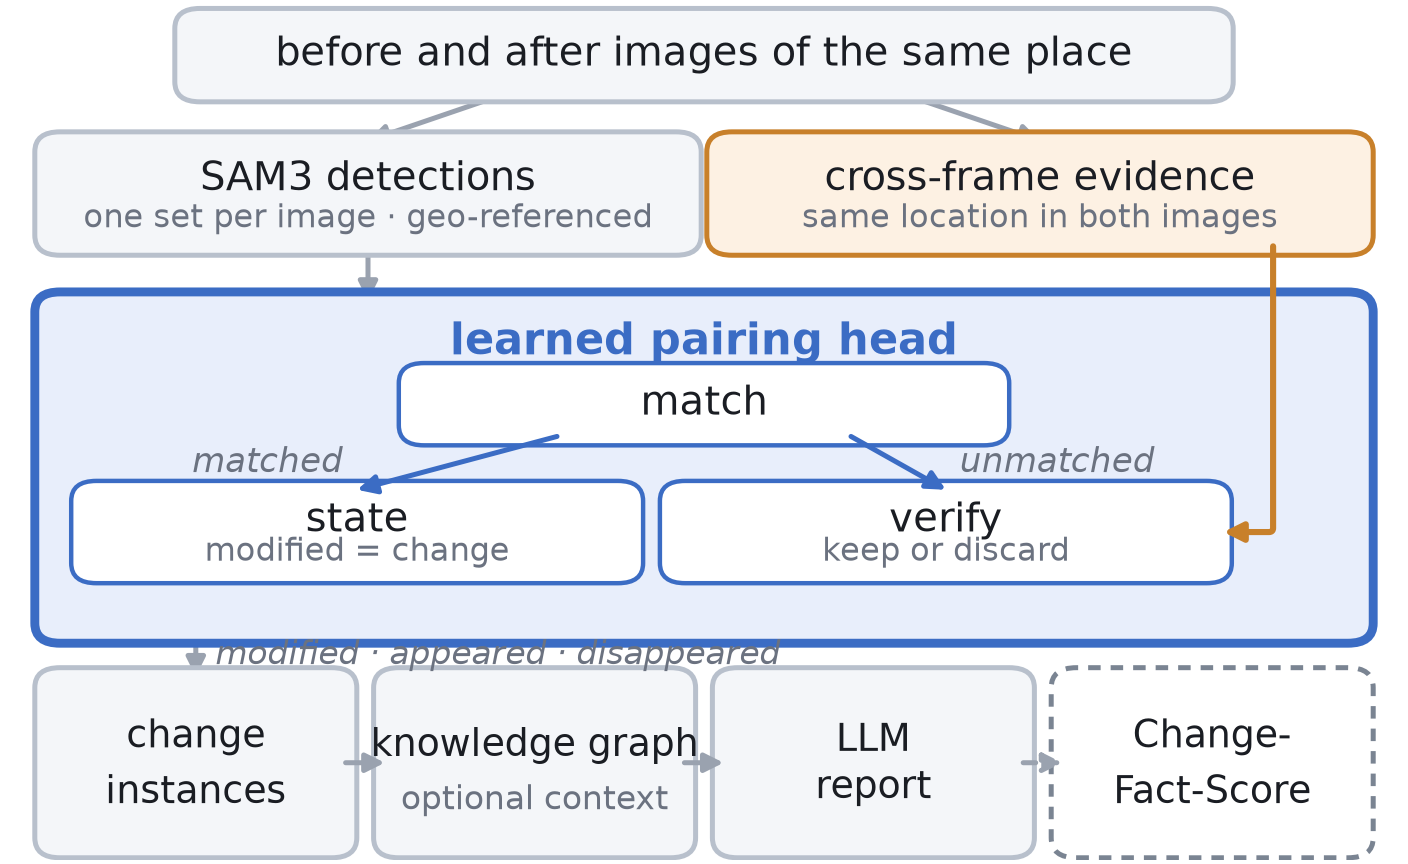
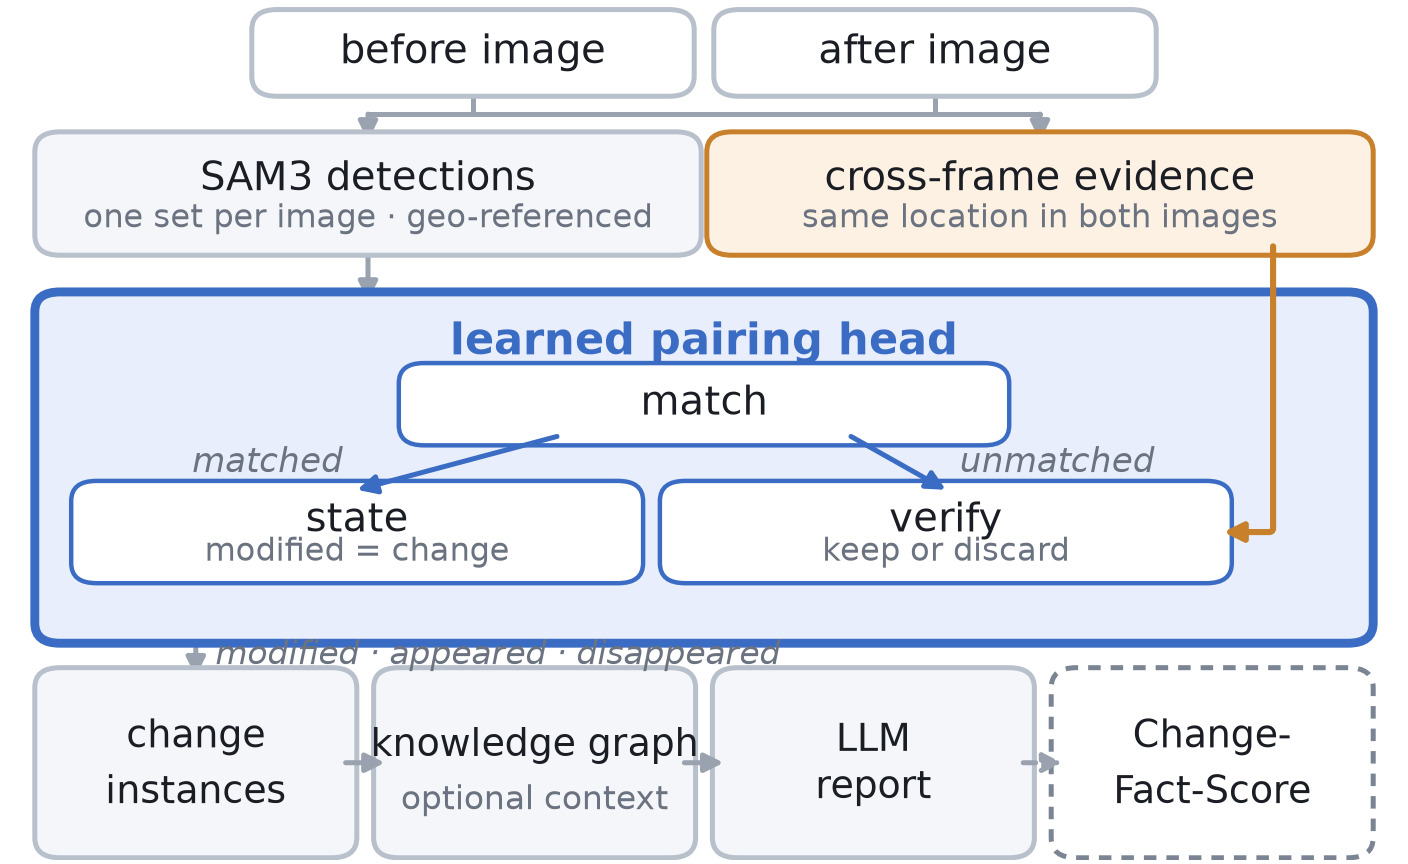
Show the two input images instead of describing them
That there are two images is the premise of the task, and the figure was
asking the reader to take it from a sentence. It is now two boxes, "before
image" and "after image", so the premise is seen rather than parsed.

Both images feed both consumers -- SAM3 runs on each image separately, and
cross-frame evidence comes from comparing the same location across the pair --
so the honest wiring is four edges. Drawn as four diagonals they would cross in
the middle; they meet at a short bus under the two inputs instead, which reads
as one junction and keeps the top of the figure quiet.

Height is unchanged at 2.15 inches, since the pair occupies the row the single
sentence had. Six pages, no undefined references, no overfull boxes, 22 tests
passing.

Changed region(s): [[0.125, 0.0, 0.875, 0.1562]]

diff --git a/scripts/gen_paper_figure.py b/scripts/gen_paper_figure.py
@@ -108,9 +108,16 @@ def build() -> None:
     chan_x = ix + inner_w + CHANNEL / 2
 
     # ---- input ------------------------------------------------------------
-    y_in, h_in = 0.895, 0.068
-    box(ax, 0.13, y_in, 0.74, h_in,
-        "before and after images of the same place", fs=7.2)
+    # Two boxes rather than one sentence: that there are *two* images is the
+    # premise of the whole task, and a reader should see it rather than parse
+    # it. Both feed both consumers -- detection runs on each image separately,
+    # cross-frame evidence comes from comparing them -- so the four edges meet
+    # at a short bus instead of crossing each other diagonally.
+    y_in, h_in = 0.900, 0.062
+    iw_in = 0.30
+    x_before, x_after = 0.185, 0.515
+    box(ax, x_before, y_in, iw_in, h_in, "before image", fill="#ffffff", fs=7.2)
+    box(ax, x_after, y_in, iw_in, h_in, "after image", fill="#ffffff", fs=7.2)
 
     # ---- detections and cross-frame evidence ------------------------------
     y_f, h_f = 0.757, 0.095
@@ -120,8 +127,15 @@ def build() -> None:
     box(ax, R - lw_, y_f, lw_, h_f, "cross-frame evidence",
         sub="same location in both images", fill=FILL_EVID, edge=EDGE_EVID,
         fs=7.2)
-    arrow(ax, 0.36, y_in, L + lw_ / 2, y_f + h_f)
-    arrow(ax, 0.64, y_in, R - lw_ / 2, y_f + h_f)
+    y_bus = (y_in + y_f + h_f) / 2
+    x_det, x_xf = L + lw_ / 2, R - lw_ / 2
+    ax.plot([x_det, x_xf], [y_bus, y_bus], color=LINE, linewidth=0.9,
+            solid_capstyle="round", zorder=1)
+    for x_src in (x_before + iw_in / 2, x_after + iw_in / 2):
+        ax.plot([x_src, x_src], [y_in, y_bus], color=LINE, linewidth=0.9,
+                zorder=1)
+    arrow(ax, x_det, y_bus, x_det, y_f + h_f)
+    arrow(ax, x_xf, y_bus, x_xf, y_f + h_f)
 
     # ---- the learned head -------------------------------------------------
     # Wiring matters here. `match` splits its candidates two ways: matched
